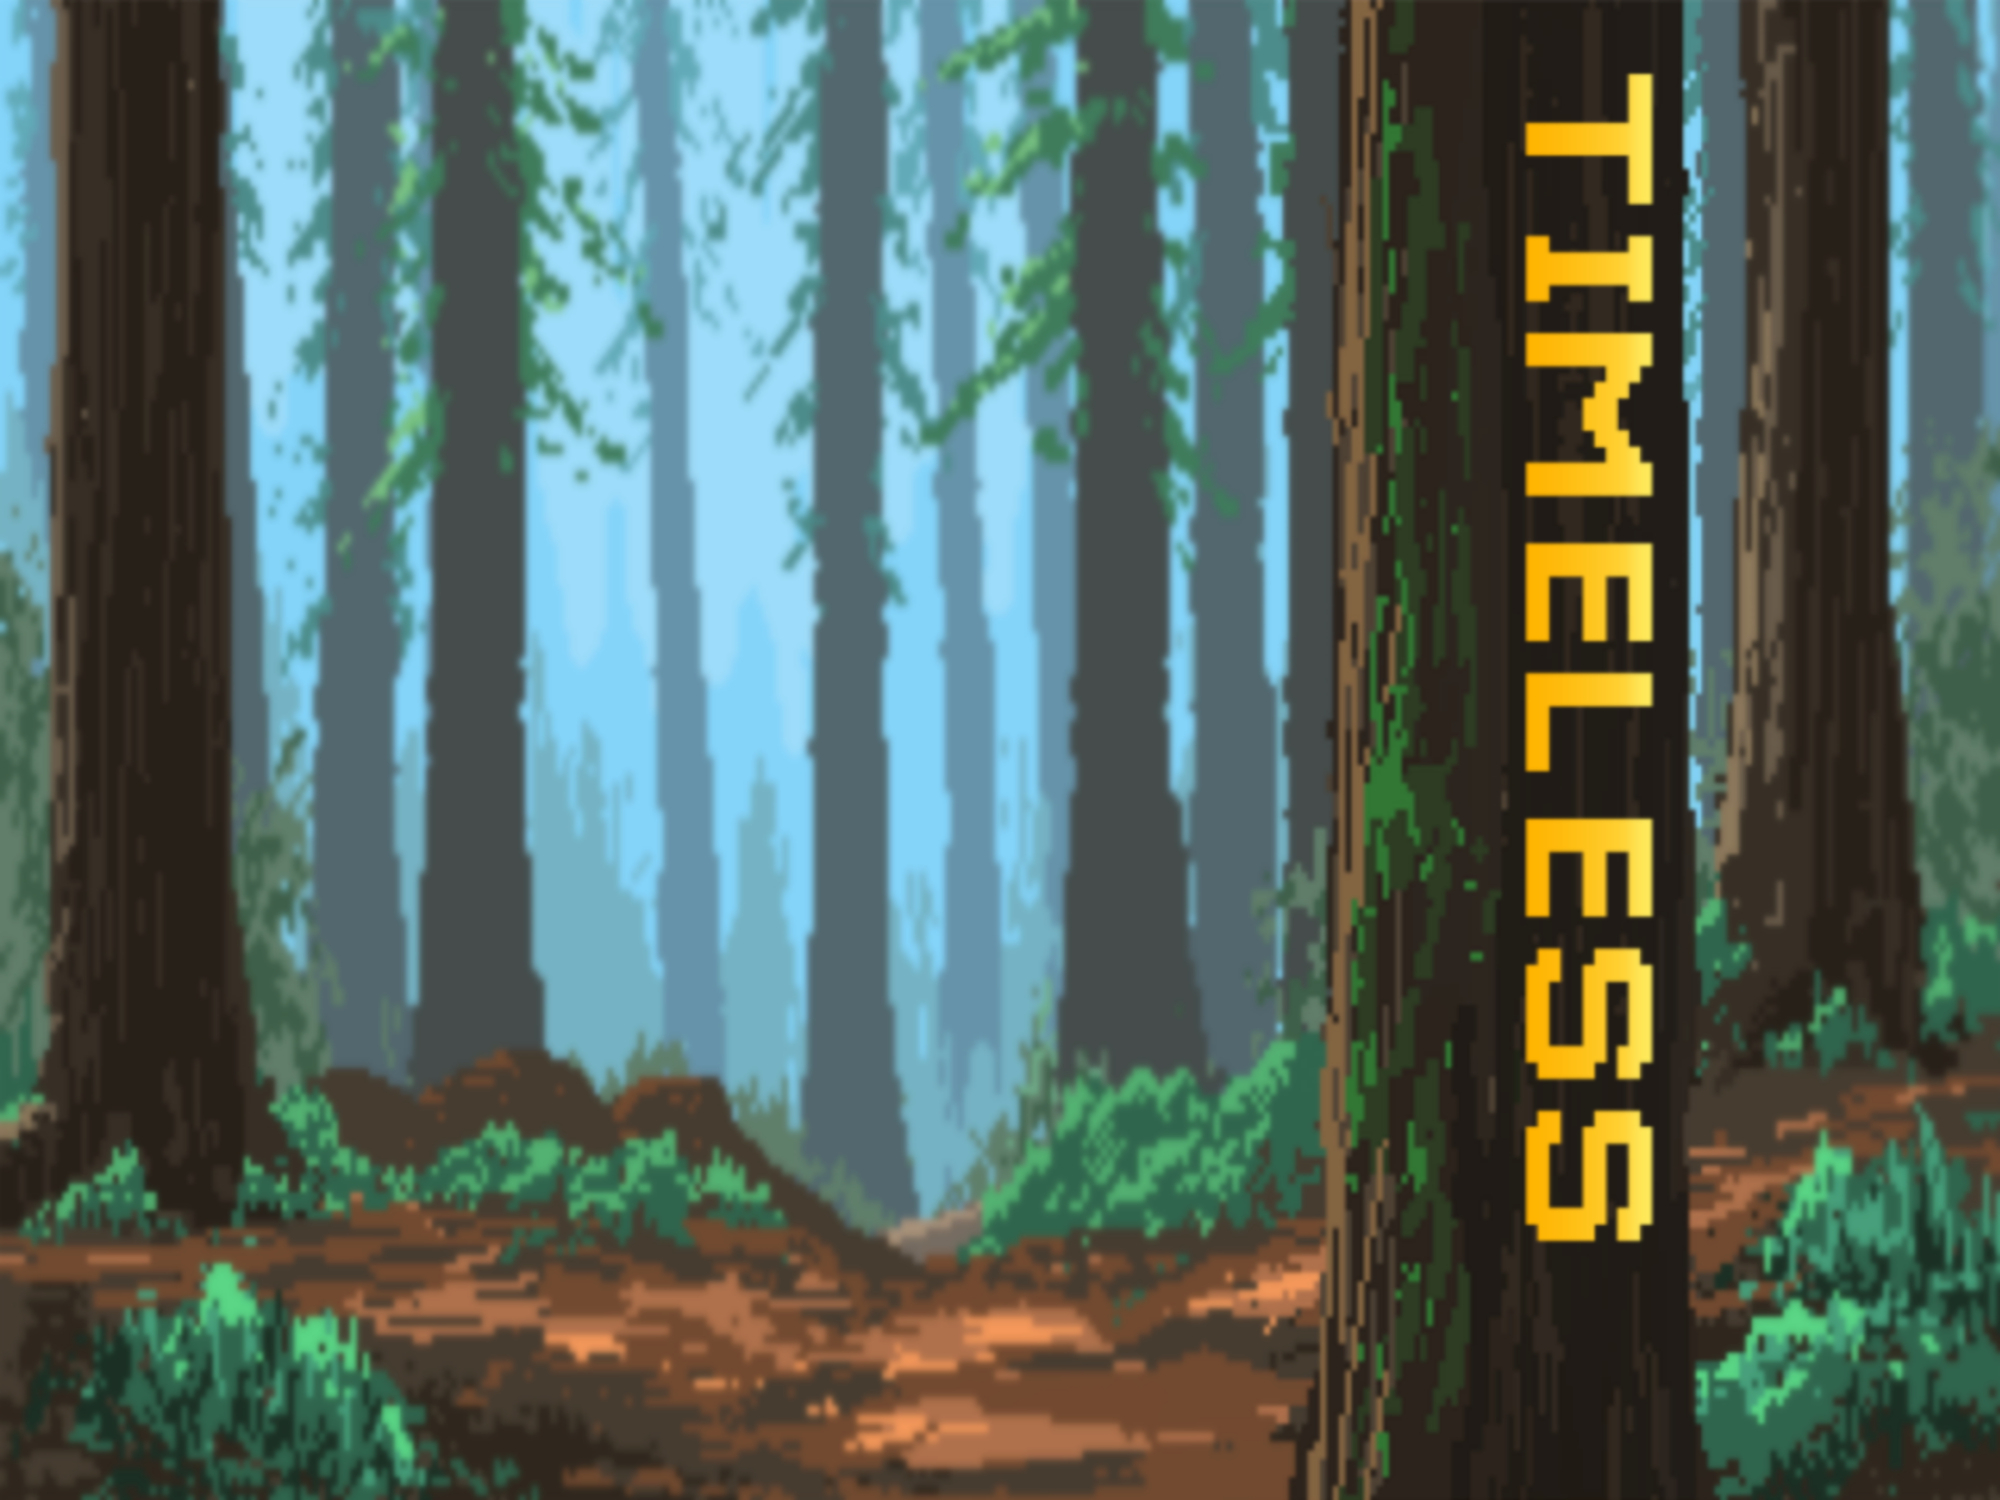
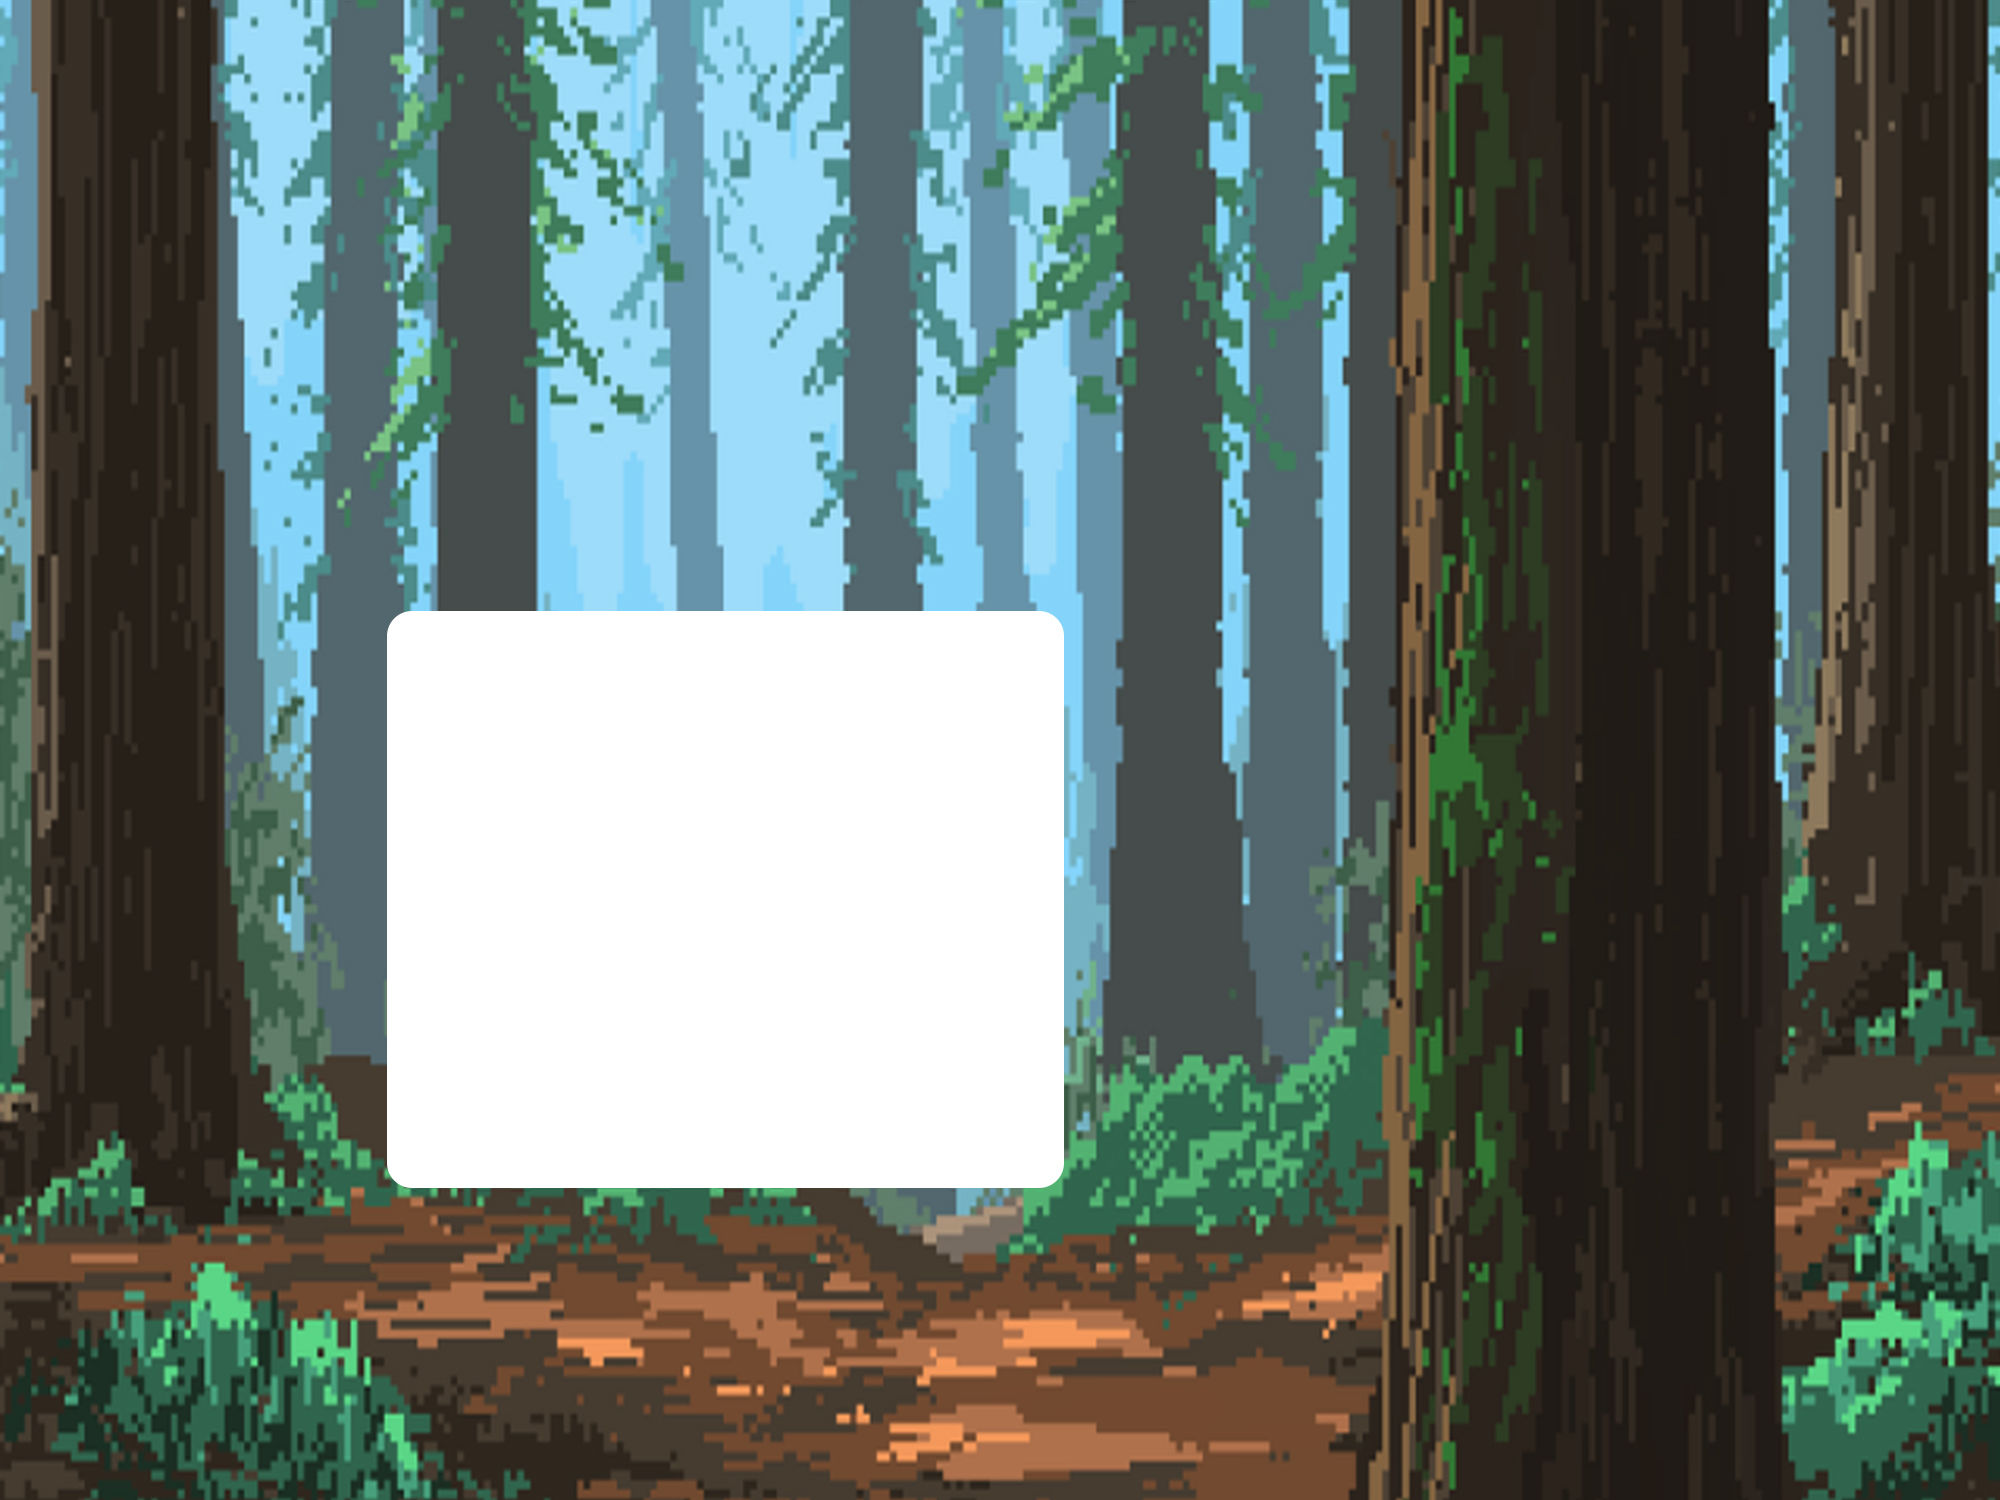
Cambiadas fotos web

diff --git a/docs/index.html b/docs/index.html
@@ -23,7 +23,7 @@
         Change image path in src="..."
       -->
       <div class="position-relative overflow-hidden p-3 p-md-5 m-md-3 text-center ">
-        <img class="img-header img-fluid" src="./img/header.jpg" alt="Header image">
+        <img class="img-header img-fluid" src="./img/header.png" alt="Header image">
       </div>
 
 
